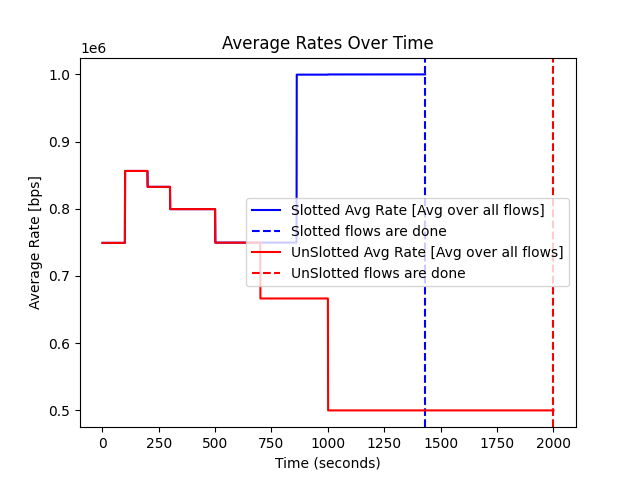
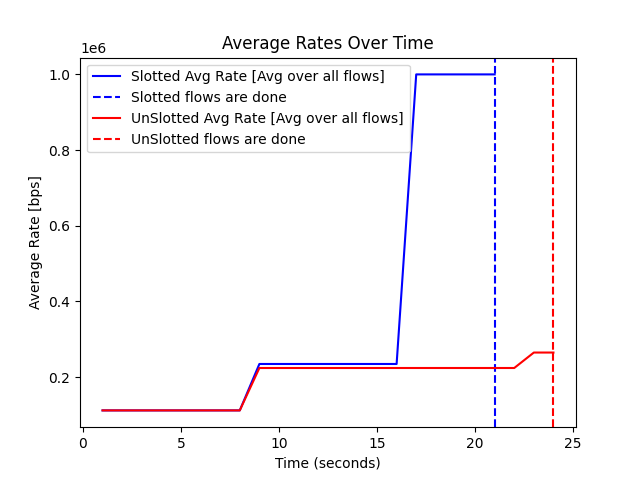
aviv bug + minor plot bug

diff --git a/DIAMOND/test/inference_vs_competitors_simple.py b/DIAMOND/test/inference_vs_competitors_simple.py
@@ -26,10 +26,10 @@ if __name__ == "__main__":
     reward_weights = dict(rate_weight=0.5, delay_weight=0, interference_weight=0, capacity_reduction_weight=0)
 
     # ------------------------------------------------------------------------
-    Simulation_Time_Resolution = 1e-1       # miliseconds (i.e. each time step is a milisecond - this is the duration of each time step in [SEC])
+    Simulation_Time_Resolution = 1e-2       # miliseconds (i.e. each time step is a milisecond - this is the duration of each time step in [SEC])
     BW_value_in_Hertz = 1e6                   # wanted BW in Hertz
-    slot_duration = 60                     # [SEC] 
-    Tot_num_of_timeslots = 150               # [num of time slots]
+    slot_duration = 8                     # [SEC] 
+    Tot_num_of_timeslots = 3               # [num of time slots]
     #------------------------------------------------------------------------
 
     # # number of nodes
@@ -68,13 +68,13 @@ if __name__ == "__main__":
                   [0, 0, 0, 0, 0, 1, 0, 1, 0]])
 
     
-    # P = [(0.0, 0), (0.0, 0.01), (0.0, 0.02),
-    #      (0.1, 0), (0.1, 0.01), (0.1, 0.02),
-    #      (0.2, 0), (0.2, 0.01), (0.2, 0.02)]
+    P = [(0.0, 0), (0.0, 0.01), (0.0, 0.02),
+         (0.1, 0), (0.1, 0.01), (0.1, 0.02),
+         (0.2, 0), (0.2, 0.01), (0.2, 0.02)]
    
-    P = [(0, 0), (0, 10), (0, 20),
-         (10, 0), (10, 10), (10, 20),
-         (20, 0), (20, 10), (20, 20)]
+    # P = [(0, 0), (0, 10), (0, 20),
+    #      (10, 0), (10, 10), (10, 20),
+    #      (20, 0), (20, 10), (20, 20)]
     
     # BW matrix
     C = BW_value_in_Hertz * np.ones((N, N)) * Simulation_Time_Resolution 
@@ -82,22 +82,24 @@ if __name__ == "__main__":
 
 
     # number of paths to choose from
-    action_size = 10                      #search space limitaions?
+    action_size = 20                      #search space limitaions?
 
     # flow demands in KiloByte
-    # F = [
-    #     {"source": 0, "destination": 8, "packets": 1000    , "time_constrain": 10 , 'flow_idx': 0 }  ]  
-    
     F = [
-        {"source": 0, "destination": 8, "packets": 1000    *1e6, "time_constrain": 10 , 'flow_idx': 0 },
-        {"source": 0, "destination": 7, "packets": 1000    *1e6, "time_constrain": 10, 'flow_idx': 1},         #Packets [in Bits]
-        {"source": 0, "destination": 6, "packets": 500  *1e6, "time_constrain": 10, 'flow_idx': 2},         #Packets [in Bits]
-        {"source": 0, "destination": 5, "packets": 1000 *1e6, "time_constrain": 10, 'flow_idx': 3},
-        {"source": 0, "destination": 4, "packets": 700  *1e6, "time_constrain": 10 , 'flow_idx': 4 },
-        {"source": 0, "destination": 3, "packets": 300  *1e6, "time_constrain": 10, 'flow_idx': 5},         #Packets [in Bits]
-        {"source": 0, "destination": 2, "packets": 150  *1e6, "time_constrain": 10, 'flow_idx': 6},         #Packets [in Bits]
-        {"source": 0, "destination": 1, "packets": 50   *1e6, "time_constrain": 10, 'flow_idx': 7}
+        {"source": 0, "destination": 8, "packets": 10  *1e5    , "time_constrain": 10 , 'flow_idx': 0 },
+        {"source": 0, "destination": 7, "packets": 100 *1e5    , "time_constrain": 10, 'flow_idx': 1},         #Packets [in Bits]  
     ]
+
+    # F = [
+    #     {"source": 0, "destination": 8, "packets": 1000    *1e6, "time_constrain": 10 , 'flow_idx': 0 },
+    #     {"source": 0, "destination": 7, "packets": 3000    *1e6, "time_constrain": 10, 'flow_idx': 1},         #Packets [in Bits]
+    #     {"source": 0, "destination": 6, "packets": 500  *1e6, "time_constrain": 10, 'flow_idx': 2},         #Packets [in Bits]
+    #     {"source": 0, "destination": 5, "packets": 200 *1e6, "time_constrain": 10, 'flow_idx': 3},
+    #     {"source": 0, "destination": 4, "packets": 50  *1e6, "time_constrain": 10 , 'flow_idx': 4 },
+    #     {"source": 0, "destination": 3, "packets": 10  *1e6, "time_constrain": 10, 'flow_idx': 5},         #Packets [in Bits]
+    #     {"source": 0, "destination": 2, "packets": 30  *1e6, "time_constrain": 10, 'flow_idx': 6},         #Packets [in Bits]
+    #     {"source": 0, "destination": 1, "packets": 40   *1e6, "time_constrain": 10, 'flow_idx': 7}
+    # ]
 
     slotted_env = SlottedGraphEnvPower( adjacency_matrix=A,
                                         bandwidth_matrix=C,
@@ -156,7 +158,10 @@ if __name__ == "__main__":
     plt.axvline(x=nan_index, color='b', linestyle='--', label='Slotted flows are done')
 
     plt.plot(time_axis_in_seconds, Tot_rates_Unsloted_interpolated, linestyle='-', color='r', label='UnSlotted Avg Rate [Avg over all flows]')
-    nan_index = np.where(np.isnan(Tot_rates_Unsloted_interpolated))[0][0]
+    if np.isnan(Tot_rates_Unsloted_interpolated).any():
+        nan_index = np.where(np.isnan(Tot_rates_Unsloted_interpolated))[0][0]
+    else:
+        nan_index = len(Tot_rates_Unsloted_interpolated)
     plt.axvline(x=nan_index, color='r', linestyle='--', label='UnSlotted flows are done')
 
     # Add labels and title

diff --git a/DIAMOND/environment/slotted_graph_env_power.py b/DIAMOND/environment/slotted_graph_env_power.py
@@ -904,6 +904,10 @@ class SlottedGraphEnvPower:
         # self.residual_flows  = []
         self.routing_metrics = dict(rate=dict(rate_per_flow=np.full([self.num_flows,self.slot_duration],np.inf).astype(np.float64)),
                                     delay=dict(end_to_end_delay_per_flow=np.zeros(self.num_flows)))
+        
+        self.possible_actions = [[] for _ in range(len(self.flows))]
+        self.__calc_possible_actions()
+        
         observation = self.__get_observation()
 
         # There is am option to output the residuals from previous time slot (prev_residuals)
